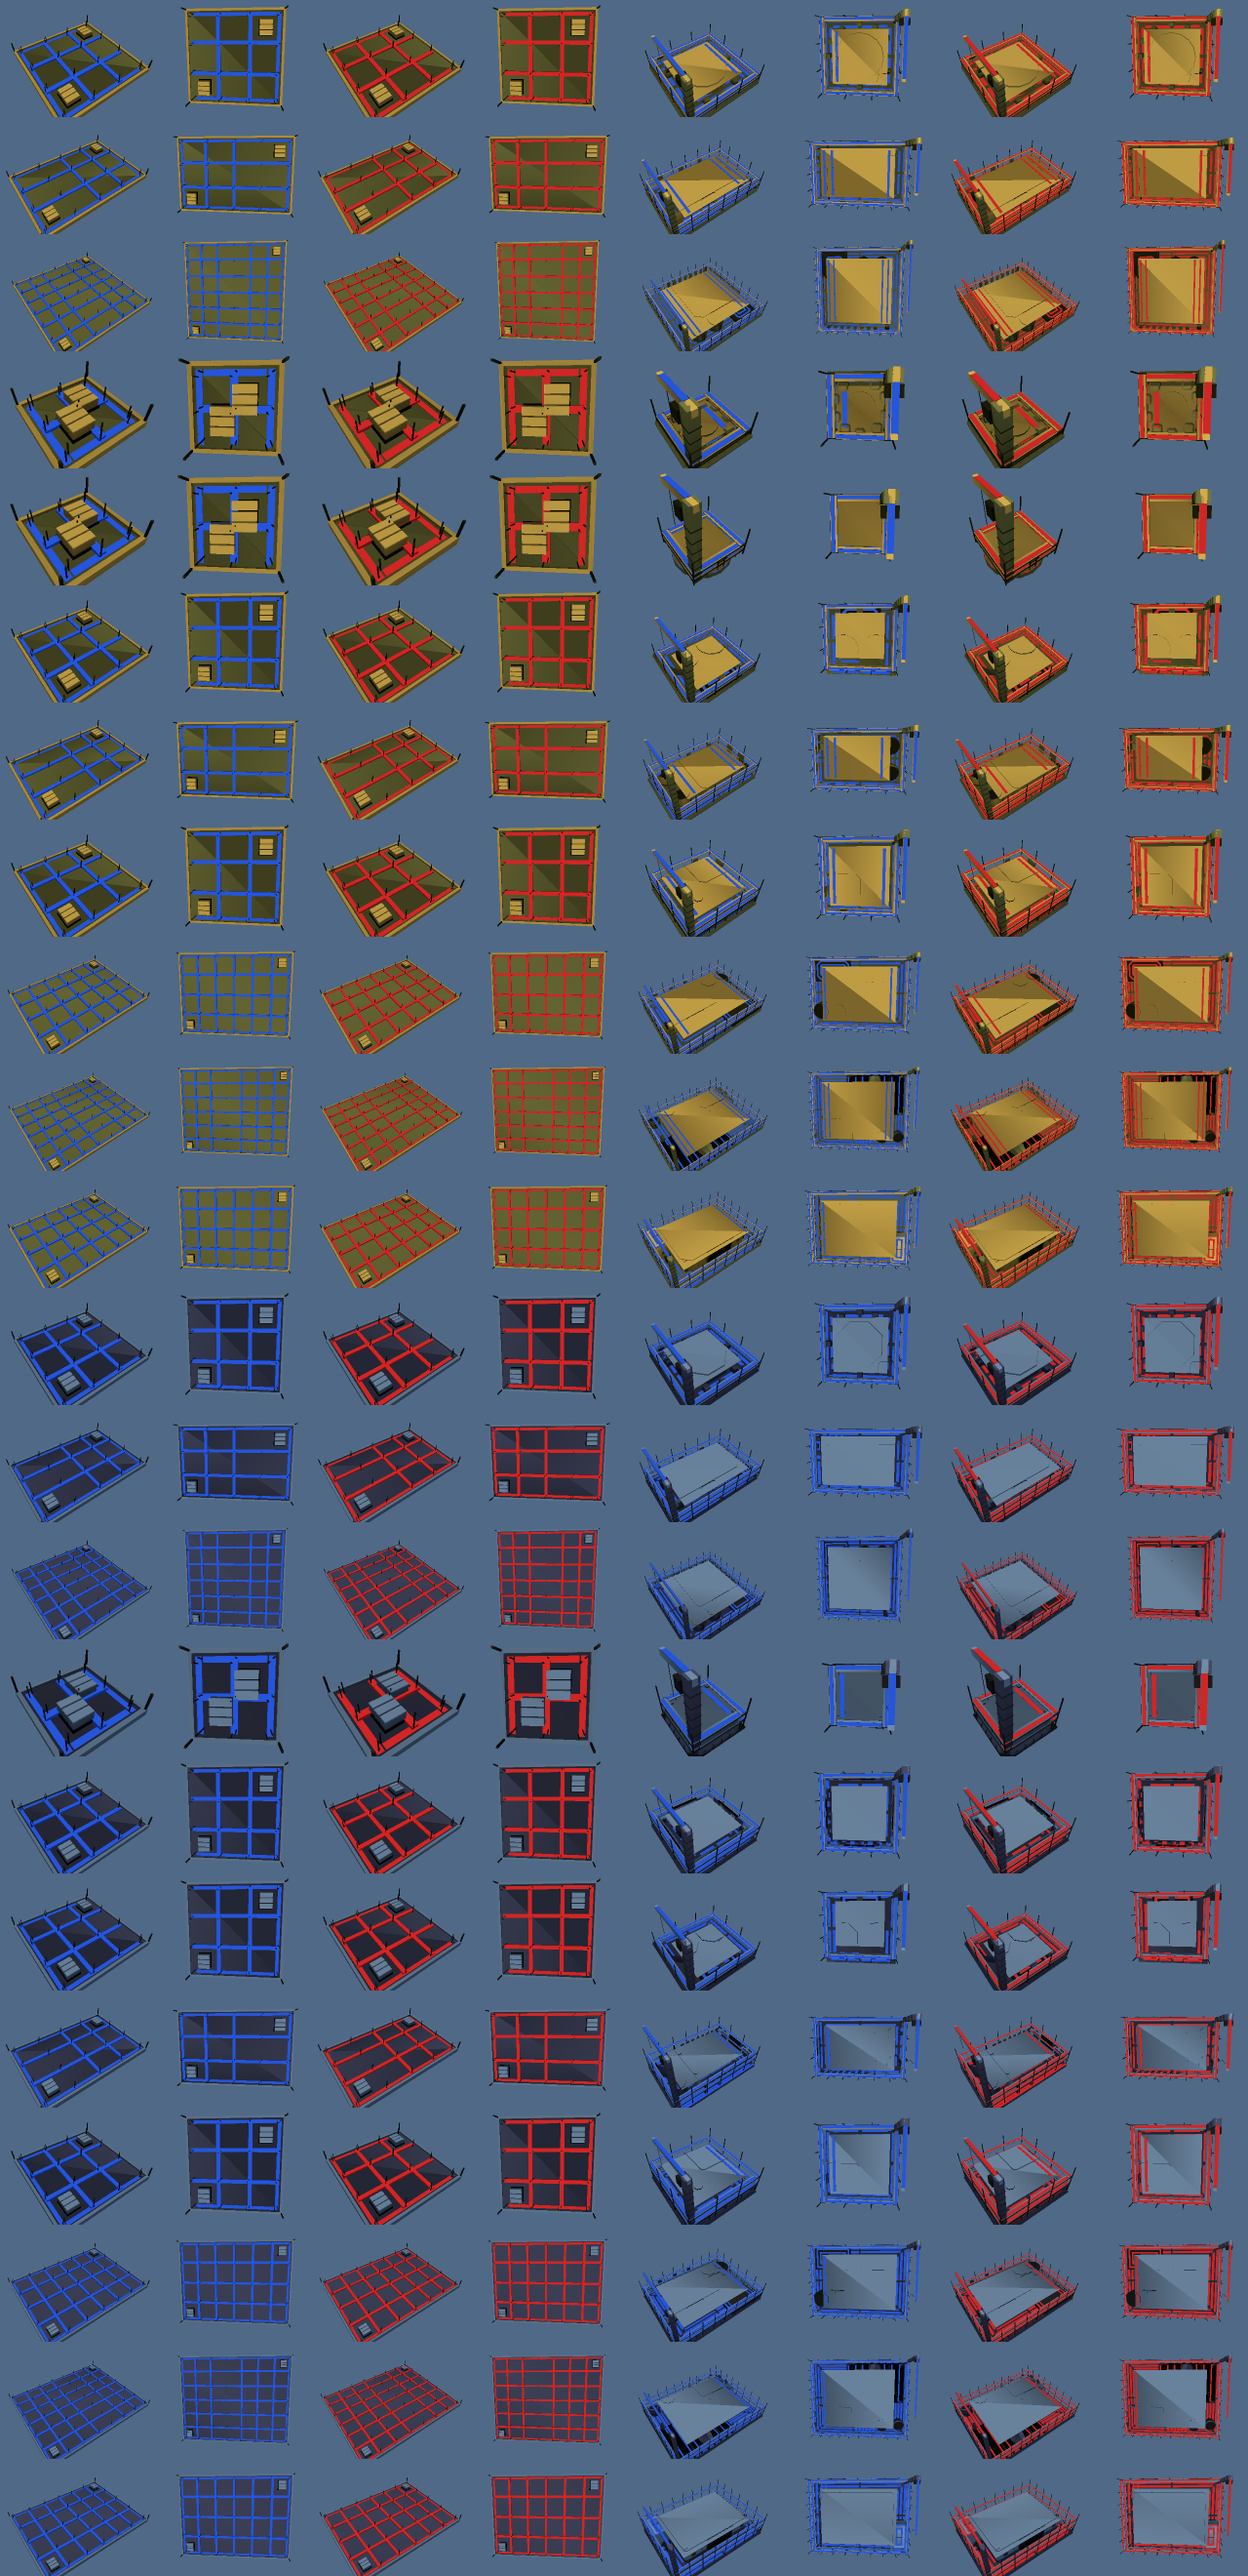
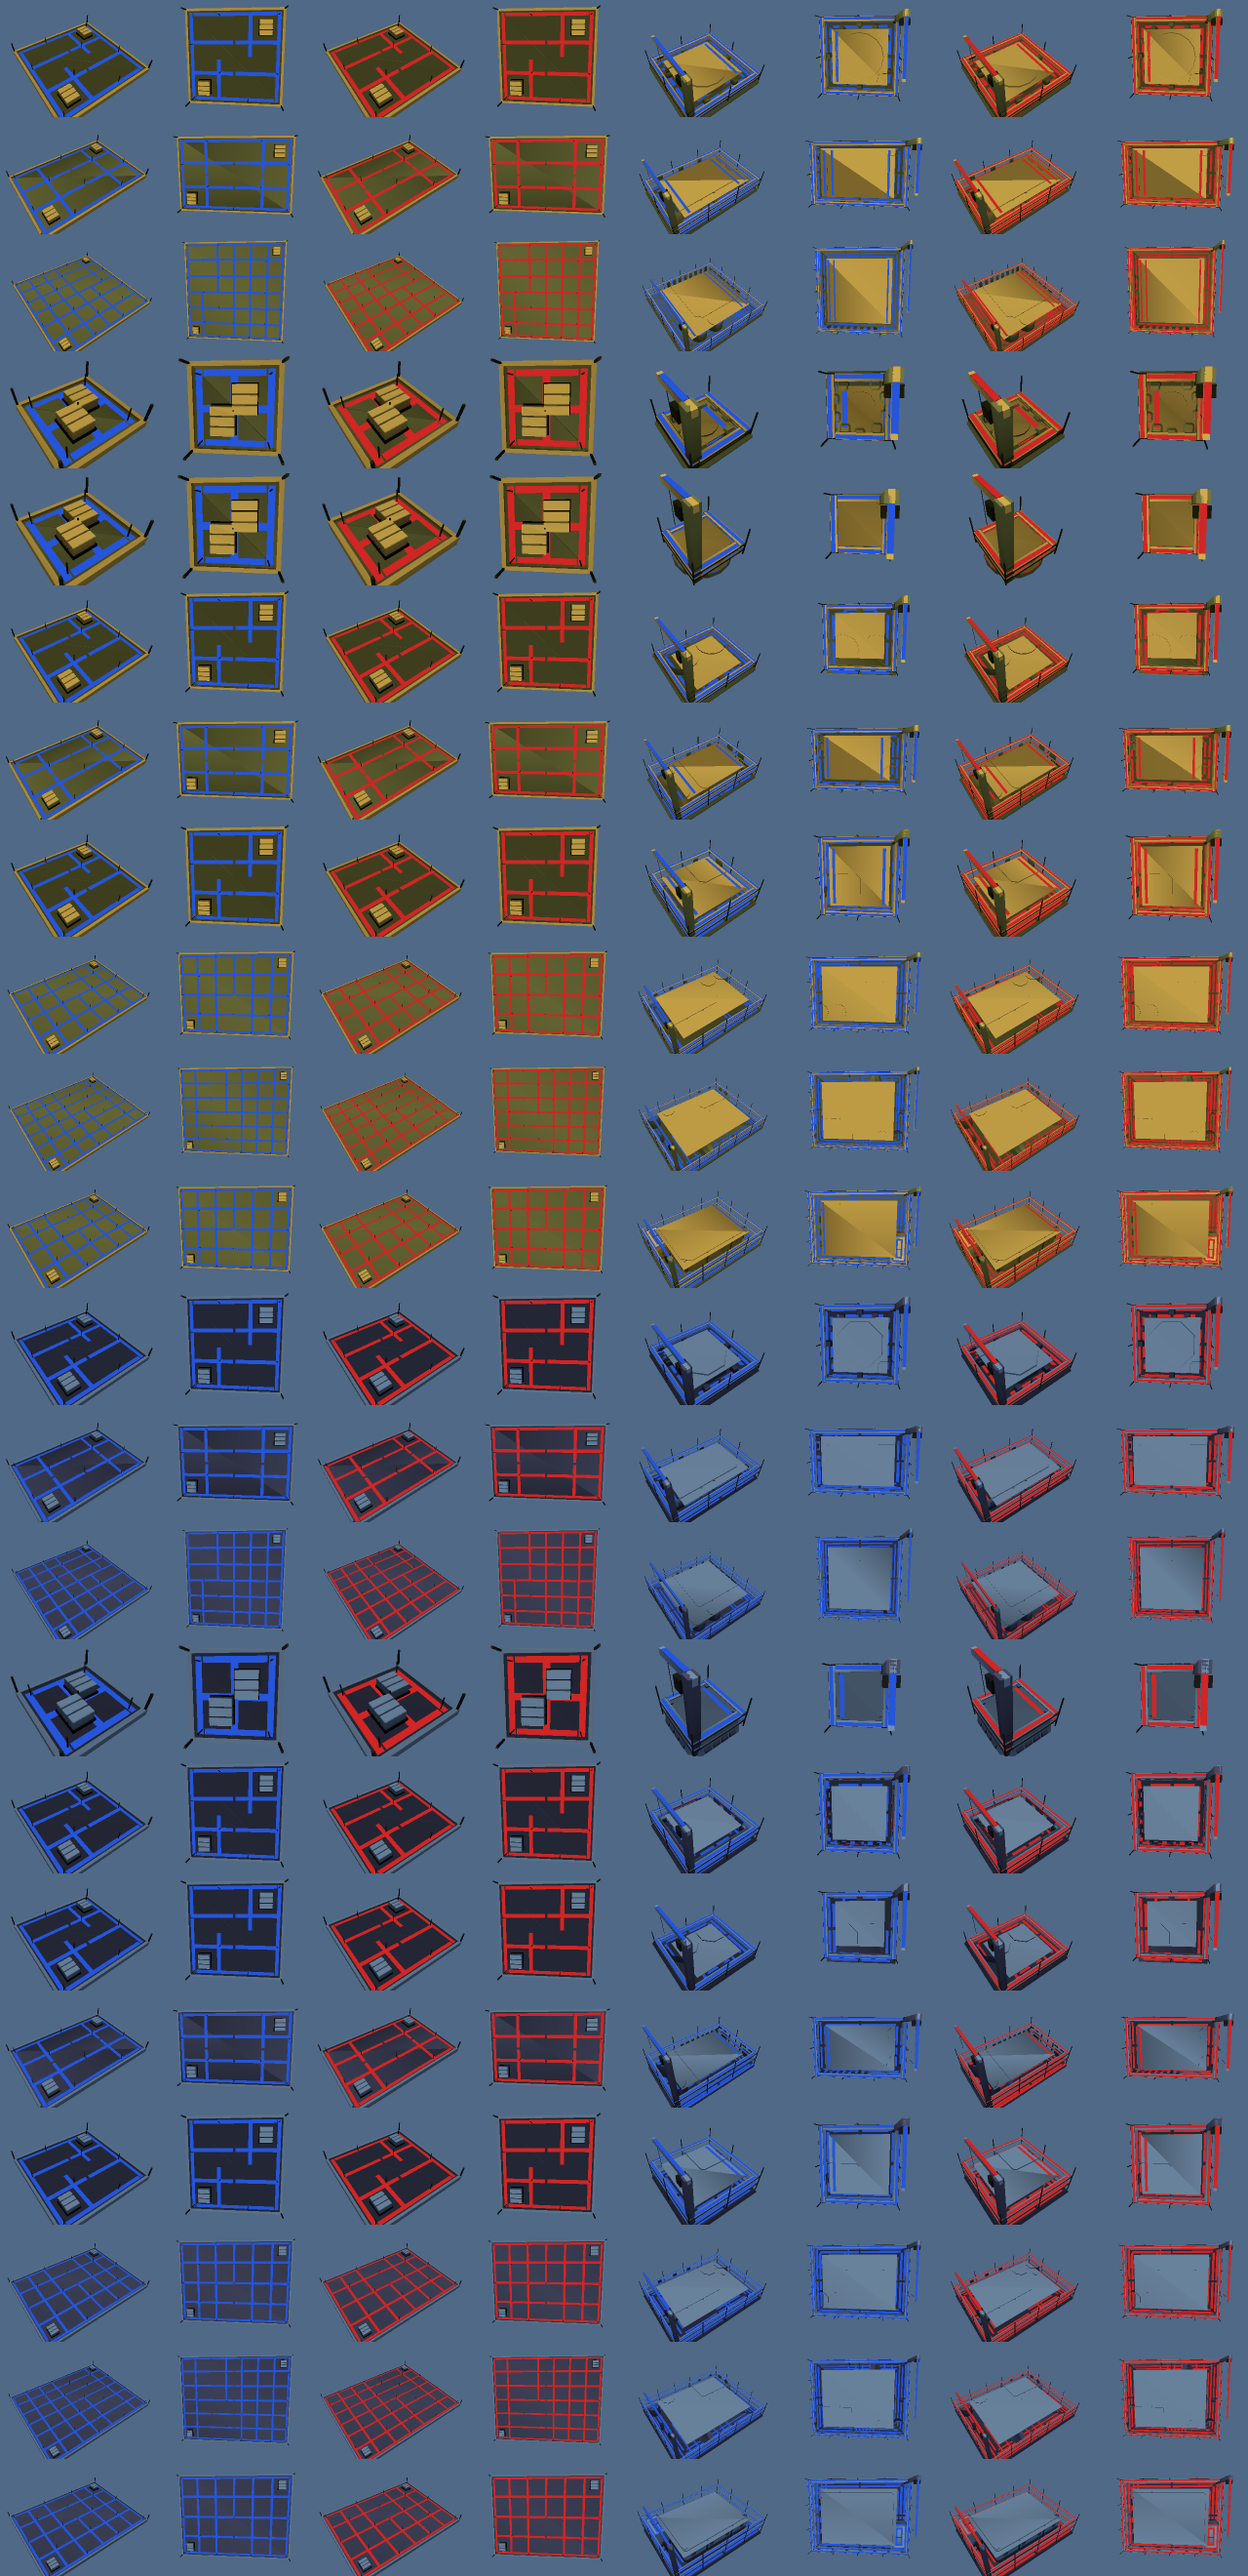
WP11.6c review: docs, contact sheets and M1 shots of the capped stages (decoy included)
Claude-Session: https://claude.ai/code/session_01E9comaZi2PE6iTmoHWTfFn

diff --git a/docs/art-style.md b/docs/art-style.md
@@ -222,17 +222,24 @@ generated (`tools/sf_model_gen/src/buildings.rs`, `objects.rs`, `stages.rs`; `se
   - *scaffolding*: the finished model cut at 60 % of its roof level (`stages::roof_level`: the
     height under which half the top-down area of the body lies, so a crane or an antenna does not
     set it; triangles across the cut are clipped, `stages::clip`), a light deck over the open
-    walls, poles, ledgers, planks with team toe boards and a crane on one corner;
+    walls, poles, ledgers, planks with team toe boards and a crane on one corner; the cut walls are
+    bare (no panel lines, bolts, glass or steel fittings yet);
   - *damaged*: a hole blown in the roof at the one of four fixed places that takes the least team
-    colour with it, soot round it (team at the hole's rim burnt to the second paint), debris on
-    the free platform;
+    colour with it and then the most geometry, soot round it (team at the hole's rim burnt to the
+    second paint), the small detail gone within 8 hole radii, debris on the free platform; the
+    hole grows (1, 1.5, 2, 3 times, `HOLE_GROWTH`) until the stage is inside its ceiling;
   - *heavily damaged*: broken off along a slanted plane at half the roof level (slope at most
     250 mm/m), soot and char along the break, a heap of chunks inside the shell with fallen band
-    pieces (team candidates) on top, debris; a turret sinks onto the break and the smoke and fire
-    anchors move down to it;
-  - each state keeps a share of its finished model's LOD0 (`STAGE_FLOOR_PERMILLE`: 30 / 70 / 85 /
-    70 %) and stays inside the finished footprint; a stage's team stripes are 600 mm wide at LOD2
-    only (`FAR_STRIPE_MM`, the far view).
+    pieces (team candidates) on top, debris, no small detail; a turret sinks onto the break and the
+    smoke and fire anchors move down to it (a heap broken off under 30 % has lost its turret);
+  - **no state is richer than its finished structure** (WP11.6c review): a state takes nothing of
+    the finished model's anchor-bolt filler and has no detail floor; its LOD0 is at most a share of
+    the finished LOD0 (`STAGE_CEIL_PERMILLE`: 30 / 70 / 90 / 70 %), its LOD1 and LOD2 are built on
+    the finished far level, and anchor bolts are added only where a reduced level would otherwise
+    exceed its share, never past the ceiling (tests `buildings_use_their_detail_budget`,
+    `no_state_has_more_triangles_than_its_finished_model`); it stays inside the finished
+    footprint; its team stripes are their top face only, up to 600 mm wide at LOD2 and never
+    wider than a fifteenth of their length (`FAR_STRIPE_MM`).
 - **Mission objects** are neutral (no player colour; the third slot is `paint3`, as the neutral
   units of WP11.6b) and keep the state names of set v4: `_damaged`, `_heavily_damaged`, `_rubble`,
   `_burnt_out`, `_destroyed` (heavy stages broken off lower), `_off`, `_disabled`, `_no_uplink`

diff --git a/docs/progress.md b/docs/progress.md
@@ -3499,13 +3499,22 @@ measurement (peak, length, silence, the mix below), not by ear. **Tijmen: please
   (release, 4 cores, same machine, other agents building).
 * **Palette.** `neutral` and the `paint3` third slot as on branch WP11.6b (identical text), plus
   `network` (graphite, amber lamp) for the automated gun and the unmanned artillery.
-* **Checked.** `sf_asset_check assets/set_v5`: 143 pass, no warnings. Contact sheets in
-  `docs/screenshots/wp11.6c/`.
+* **Checked.** `sf_asset_check --deny-warnings assets/set_v5`: 157 pass (with the units of #142).
+  Contact sheets in `docs/screenshots/wp11.6c/`.
+* **Review sweep (15-11-2026).** No state is richer than its finished structure: states no longer
+  inherit the finished model's anchor-bolt filler and have no detail floor; LOD0 at most 30 / 70 /
+  90 / 70 % of the finished LOD0 (`STAGE_CEIL_PERMILLE`), LOD1/LOD2 built on the finished far
+  level, scaffolding walls bare, damage takes the small detail, team stripes top-face only.
+  `assets/set_v5` 55.3 MB -> 34 MB. New tests: `no_state_has_more_triangles_than_its_finished_model`,
+  a stronger `the_states_read_as_their_stage` (crane, roof under 90 % of the finished roof, anchors
+  down, soot, debris, cut walls), more constants pinned, and
+  `a_missing_set_v5_state_file_is_none_even_with_a_set_v4_one` (roster). The ore silo's size limit
+  is 7.60 m like the other two-cell structures.
 * **Gaps.** The heavily damaged stages read mostly as a heap (a grid of chunks in the cut shell);
   the scaffolding deck hides the inside of the cut walls; the bolt rows that pad small structures
   are a filler, not designed detail; the mission objects' special states (`_off`, `_disabled`,
   `_no_uplink`, `_burnt_out`, `_destroyed`, `_rubble`) are made but no engine rule shows them yet;
-  the ferry (a vessel) is WP11.6b's; 51 MB of GLB in the repo (non-indexed vertices with RGB
+  the ferry (a vessel) is WP11.6b's; 34 MB of GLB in `assets/set_v5` (non-indexed vertices with RGB
   vertex colour; the writer was left alone so the WP11.6a pins hold).
 
 ### WP11.6a notes: the model generator and the style proof (14-11-2026)
